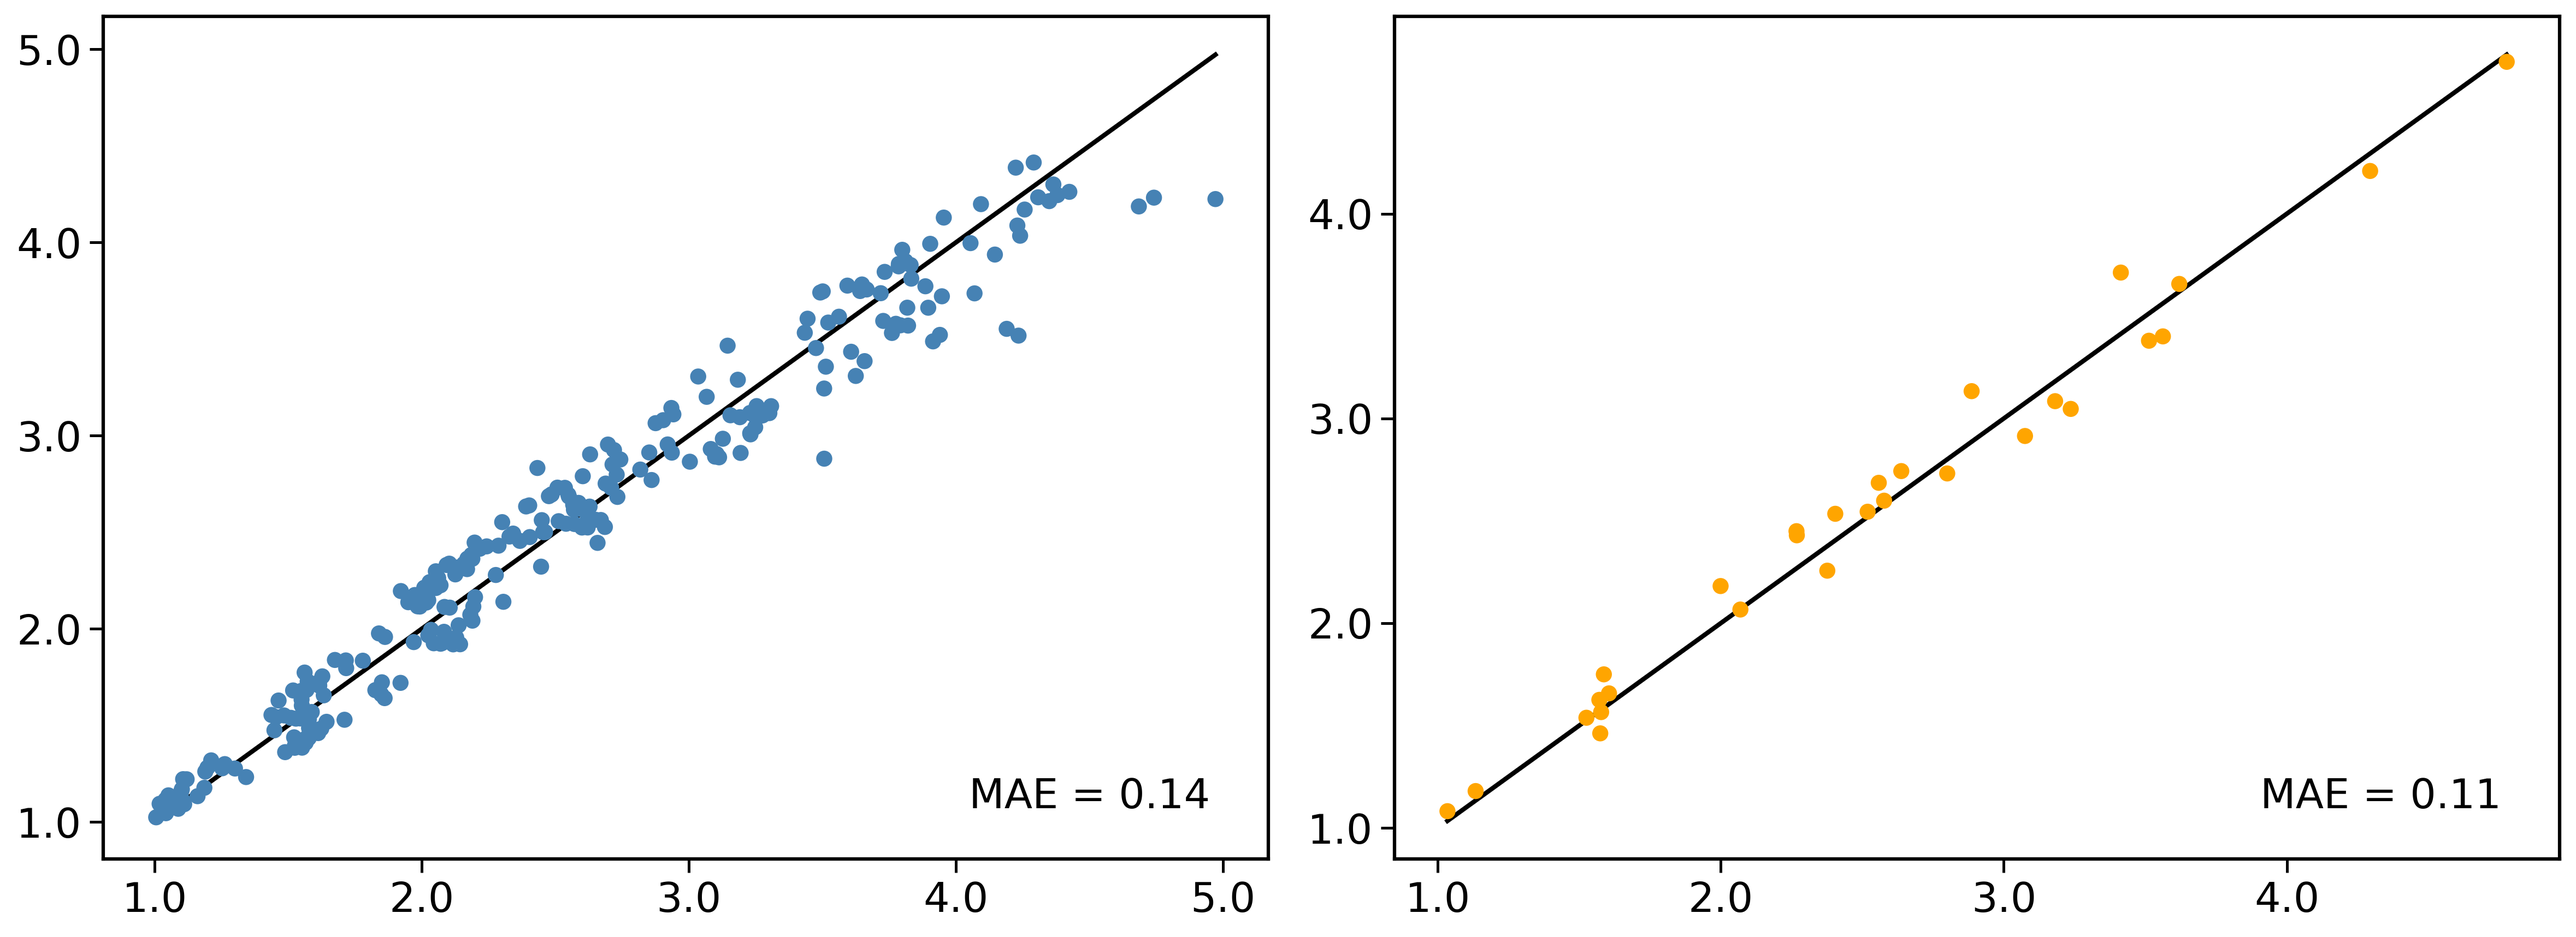
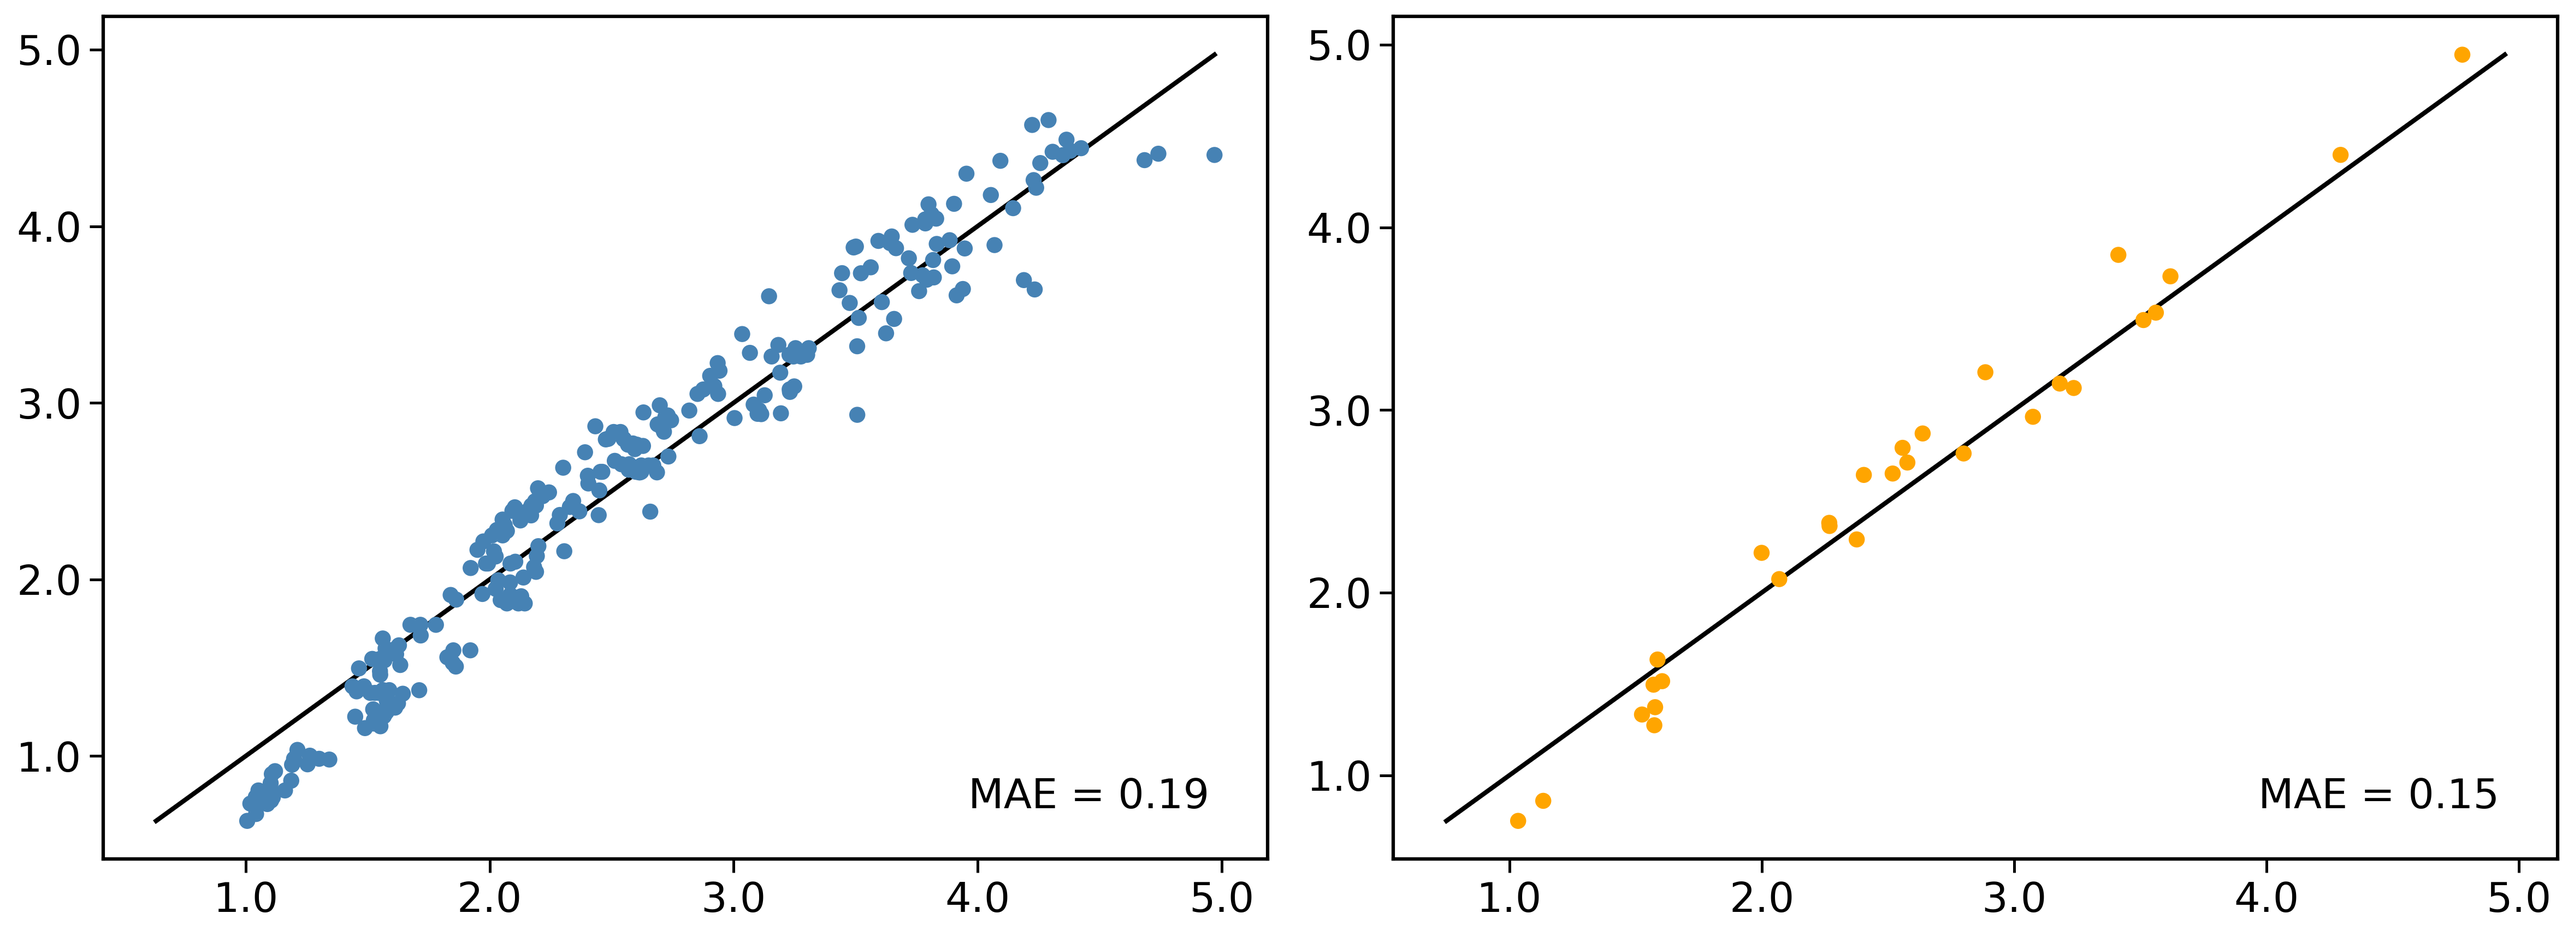
baseline polynomials

diff --git a/time_select/hf_selection.py b/time_select/hf_selection.py
@@ -206,82 +206,79 @@ time_polynomials = {
 
     "MP2_true": lambda p, n_occ, n_virt, nbf_aux: (
         p[0] 
-        + p[1] * (nbf_aux * (n_occ + n_virt) ** 2)               # J Build
-        + p[2] * (n_occ * (n_occ + n_virt) ** 2 * nbf_aux)       # K Build
+        + p[1] * (nbf_aux * (n_occ + n_virt) ** 2)               # HF J Build
+        + p[2] * (n_occ * (n_occ + n_virt) ** 2 * nbf_aux)       # HF K Build
         + p[3] * (n_occ * (n_occ + n_virt)**2 * nbf_aux)         # 3-index int 1
         + p[4] * (n_occ * n_virt * (n_occ + n_virt) * nbf_aux)   # 3-index int 2 
         + p[5] * (n_occ**2 * n_virt**2 * nbf_aux)                # int transform
     ),
 
-    "wB97X-V_2_le": lambda p, n_occ, n_virt, nbf_aux, np_total: (
-        p[0] + p[1] * (n_occ * (n_occ + n_virt)**2 * nbf_aux) 
-        + p[2] * (nbf_aux * (n_occ + n_virt)**2) 
-        + p[3] * ((n_occ + n_virt) * np_total) 
-        + p[4] * ((0.5 * np_total) ** 2)
+    "B3LYP-D3_true": lambda p, n_occ, n_virt, nbf_aux, np_total: (
+        p[0]
+        + p[1] * (np_total * (n_occ + n_virt)**2)              # DFT exchange SHOULD THIS BE Nao^1 ?
+        + p[2] * (nbf_aux * (n_occ + n_virt) ** 2)          # HF J Build
+        + p[3] * (n_occ * (n_occ + n_virt) ** 2 * nbf_aux)  # HF K Build
     ),
 
-    "wB97X-V_2_gt": lambda p, n_occ, n_virt, nbf_aux, np_total: (
-        p[0] + p[1] * (n_occ * (n_occ + n_virt)**2 * nbf_aux) 
-        + p[2] * (nbf_aux * (n_occ + n_virt)**2) 
-        + p[3] * ((n_occ + n_virt) ** 1.1 * np_total) 
-        + p[4] * ((0.8*np_total) ** 2)
+    "B2PLYP-D3_true": lambda p, n_occ, n_virt, nbf_aux, np_total: (
+        p[0]
+        + p[1] * (np_total * (n_occ + n_virt)**2)                   # DFT exchange SHOULD THIS BE Nao^1 ?
+        + p[2] * (nbf_aux * (n_occ + n_virt) ** 2)               # HF J Build
+        + p[3] * (n_occ * (n_occ + n_virt) ** 2 * nbf_aux)       # HF K Build
+        + p[4] * (n_occ * (n_occ + n_virt)**2 * nbf_aux)         # MP2 3-index int 1
+        + p[5] * (n_occ * n_virt * (n_occ + n_virt) * nbf_aux)   # MP2 3-index int 2 
+        + p[6] * (n_occ**2 * n_virt**2 * nbf_aux)                # MP2 int transform
     ),
 
-    "B3LYP-D3_1": lambda p, n_occ, n_virt, nbf_aux, np_total: (
-        p[0] + p[1] * ((n_occ + n_virt) * np_total) 
-        + p[2] * (((n_occ + n_virt)**2 * nbf_aux) + ((n_occ + n_virt)**2 * nbf_aux) + nbf_aux**2) 
-        + p[3] * (nbf_aux**2 + nbf_aux**3)
-    ),
-
-    "B2PLYP-D3_2": lambda p, n_occ, n_virt, nbf_aux, np_total: (
-        p[0]  # Constant overhead
-        + p[1] * (np_total * (n_occ + n_virt))  # DFT XC (B88+LYP): O(N_grid × N_bf^1.4)
-        + p[2] * (nbf_aux * (n_occ + n_virt)**2)  # J matrix: O(N_aux × N_bf^2)
-        + p[3] * (nbf_aux * (n_occ + n_virt)**2 * n_occ)  # K matrix: O(N_bf^2 × N_occ × N_aux)
-        + p[4] * (nbf_aux * (n_occ + n_virt)**2 * n_occ)  # MP2 transformation: O(N_aux × N_bf^2 × N_occ)
-        + p[5] * (nbf_aux**2 * n_occ * n_virt)  # MP2 fitting: O(N_occ × N_virt × N_aux^2)
-        + p[6] * (nbf_aux * n_occ**2 * n_virt**2)  # MP2 energy: O(N_occ^2 × N_virt^2 × N_aux)
-    ),
-    "B2PLYP-D3_2_1": lambda p, n_occ, n_virt, nbf_aux, np_total: (
-        p[0]  # Constant overhead
-        + p[1] * (np_total * (n_occ + n_virt)**1.2)  # DFT XC (B88+LYP): O(N_grid × N_bf^1.4)
-        + p[2] * (nbf_aux * (n_occ + n_virt)**2)  # J matrix: O(N_aux × N_bf^2)
-        + p[3] * (nbf_aux * (n_occ + n_virt)**2 * n_occ)  # K matrix: O(N_bf^2 × N_occ × N_aux)
-        + p[4] * (nbf_aux * (n_occ + n_virt)**2 * n_occ)  # MP2 transformation: O(N_aux × N_bf^2 × N_occ)
-        + p[5] * (nbf_aux**2 * n_occ * n_virt)  # MP2 fitting: O(N_occ × N_virt × N_aux^2)
-        + p[6] * (nbf_aux * n_occ**2 * n_virt**2)  # MP2 energy: O(N_occ^2 × N_virt^2 × N_aux)
-    ),
-
-    "M05-2X_2": lambda p, n_occ, n_virt, nbf_aux, np_total: (
-        p[0]  # Constant overhead
-        + p[1] * (np_total * (n_occ + n_virt)**1.2)  # Meta-GGA XC: O(N_grid × N_bf^1.4)
-        + p[2] * (nbf_aux * (n_occ + n_virt)**2)  # J matrix: O(N_aux × N_bf^2)
-        + p[3] * (nbf_aux * (n_occ + n_virt)**2 * n_occ)  # K matrix: O(N_bf^2 × N_occ × N_aux)
+    "M05-2X_true": lambda p, n_occ, n_virt, nbf_aux, np_total: (
+        p[0]
+        + p[1] * (np_total * (n_occ + n_virt)**2)              # DFT exchange SHOULD THIS BE Nao^1 ?
+        + p[2] * (nbf_aux * (n_occ + n_virt) ** 2)          # HF J Build
+        + p[3] * (n_occ * (n_occ + n_virt) ** 2 * nbf_aux)  # HF K Build
     ),  
 
-    "PBE-D3_2": lambda p, n_occ, n_virt, nbf_aux, np_total: (
-        p[0] 
-        + p[1] * ((n_occ + n_virt)**1.25 * np_total) 
-        + p[2] * (n_occ * (n_occ + n_virt)**2 * nbf_aux) 
-        + p[3] * (nbf_aux * (n_occ + n_virt)**2)
+    "PBE-D3_true": lambda p, n_occ, n_virt, nbf_aux, np_total: (
+        p[0]
+        + p[1] * (np_total * (n_occ + n_virt)**2)              # DFT exchange SHOULD THIS BE Nao^1 ?
+        + p[2] * (nbf_aux * (n_occ + n_virt) ** 2)          # HF J Build
     ),
 
-    "PBE-D3_2_1": lambda p, n_occ, n_virt, nbf_aux, np_total: (
+    "FNO-CCSD_true": lambda p, n_occ, n_virt: ( 
         p[0] 
-        + p[1] * ((n_occ + n_virt)**1.25 * np_total) 
-        + p[2] * (n_occ * (n_occ + n_virt)**2 * nbf_aux) 
-        + p[3] * (nbf_aux * (n_occ + n_virt)**2)
+        + p[1] * (n_occ * n_virt)             # J-term
+        + p[2] * (n_occ ** 3 * n_virt ** 2)   # H-term
+        + p[3] * (n_occ ** 2 * n_virt ** 2)   # F,I-term
+        + p[4] * (n_occ ** 2 * n_virt ** 3)   # G-term
+        + p[5] * (n_occ ** 3 * n_virt ** 3)   # C,D-term
+        + p[6] * (n_occ ** 2 * n_virt ** 4)   # B-term
+        + p[7] * (n_occ ** 4 * n_virt ** 2)   # A-term
     ),
 
-    "CCSD_test_1": lambda p, n_occ, n_virt: (
+    "FNO-CCSD(T)_true": lambda p, n_occ, n_virt: (
         p[0] 
-        + p[1] * (n_occ ** 1 * n_virt ** 1) 
-        + p[2] * (n_occ ** 3 * n_virt ** 2) 
-        + p[3] * (n_occ ** 2 * n_virt ** 2) 
-        + p[4] * (n_occ ** 2 * n_virt ** 3) 
-        + p[5] * (n_occ ** 3 * n_virt ** 3) 
-        + p[6] * (n_occ ** 2 * n_virt ** 4) 
-        + p[7] * (n_occ ** 4 * n_virt ** 2)
+        + p[1] * (n_occ * n_virt)             # J-term
+        + p[2] * (n_occ ** 3 * n_virt ** 2)   # H-term
+        + p[3] * (n_occ ** 2 * n_virt ** 2)   # F,I-term
+        + p[4] * (n_occ ** 2 * n_virt ** 3)   # G-term
+        + p[5] * (n_occ ** 3 * n_virt ** 3)   # C,D-term
+        + p[6] * (n_occ ** 2 * n_virt ** 4)   # B-term
+        + p[7] * (n_occ ** 4 * n_virt ** 2)   # A-term
+        + p[8] * (n_occ ** 3 * n_virt ** 4)   # T algorithm?
+    ),
+
+    "wB97X-V_true": lambda p, n_occ, n_virt, nbf_aux, np_total: (
+        p[0]
+        + p[1] * (np_total * (n_occ + n_virt)**2)              # DFT exchange SHOULD THIS BE Nao^1 ?
+        + p[2] * (nbf_aux * (n_occ + n_virt) ** 2)          # HF J Build
+        + p[3] * (n_occ * (n_occ + n_virt) ** 2 * nbf_aux)  # HF K Build
+        + p[4] * (np_total ** 2)                            # VV10
+    ),
+
+    "wB97X-D_true": lambda p, n_occ, n_virt, nbf_aux, np_total: (
+        p[0]
+        + p[1] * (np_total * (n_occ + n_virt)**2)              # DFT exchange SHOULD THIS BE Nao^1 ?
+        + p[2] * (nbf_aux * (n_occ + n_virt) ** 2)          # HF J Build
+        + p[3] * (n_occ * (n_occ + n_virt) ** 2 * nbf_aux)  # HF K Build
     ),
 
 }
@@ -351,65 +348,65 @@ if(COMPOSITE_POLYS):
 
 else:
     POLY_CONFIGS = {
-        # "wB97X-V": {
-        #     "split": None,
-        #     "split_type": "nbf_aux",
-        #     "le": ("wB97X-V_2_le", {"n_params": 5, "bounds": (0.0, None)}),
-        #     "gt": ("wB97X-V_2_gt", {"n_params": 5, "bounds": (0.0, None)}),
-        # },
-        # "wB97X-D": {
-        #     "split": None,
-        #     "split_type": "nbf_aux",
-        #     "le": ("wB97X-V_2_le", {"n_params": 5, "bounds": (0.0, None)}),
-        #     "gt": ("wB97X-V_2_gt", {"n_params": 5, "bounds": (0.0, None)}),
-        # },        
-        # "B3LYP-D3": {
-        #     "split": None,
-        #     "split_type": "np_total",
-        #     "le": ("B3LYP-D3_1", {"n_params": 4, "bounds": (0.0, None)}),
-        #     "gt": ("B3LYP-D3_1", {"n_params": 4, "bounds": (0.0, None)}),
-        # },
-        # "B2PLYP-D3": {
-        #     "split": None,
-        #     "split_type": "np_total",
-        #     "le": ("B2PLYP-D3_2", {"n_params": 7, "bounds": (0.0, None)}),
-        #     "gt": ("B2PLYP-D3_2_1", {"n_params": 7, "bounds": (0.0, None)}),
-        # },
+        "wB97X-V": {
+            "split": None,
+            "split_type": "nbf_aux",
+            "le": ("wB97X-V_true", {"n_params": 5, "bounds": (0.0, None)}),
+            "gt": ("wB97X-V_2_gt", {"n_params": 5, "bounds": (0.0, None)}),
+        },
+        "wB97X-D": {
+            "split": None,
+            "split_type": "nbf_aux",
+            "le": ("wB97X-D_true", {"n_params": 4, "bounds": (0.0, None)}),
+            "gt": ("wB97X-V_2_gt", {"n_params": 5, "bounds": (0.0, None)}),
+        },        
+        "B3LYP-D3": {
+            "split": None,
+            "split_type": "np_total",
+            "le": ("B3LYP-D3_true", {"n_params": 4, "bounds": (0.0, None)}),
+            "gt": ("B3LYP-D3_1", {"n_params": 4, "bounds": (0.0, None)}),
+        },
+        "B2PLYP-D3": {
+            "split": None,
+            "split_type": "np_total",
+            "le": ("B2PLYP-D3_true", {"n_params": 7, "bounds": (0.0, None)}),
+            "gt": ("B2PLYP-D3_2_1", {"n_params": 7, "bounds": (0.0, None)}),
+        },
         "MP2": {
             "split": None,
             "split_type": "nbf_aux",
             "le": ("MP2_true", {"n_params": 6, "bounds": (0.0, None)}),
             "gt": ("MP2_test7", {"n_params": 6, "bounds": (0.0, None)}),
         },
-        # "HF": {
-        #     "split": None,
-        #     "split_type": "nbf_aux",
-        #     "le": ("HF_test4", {"n_params": 3, "bounds": (0.0, None)}),
-        #     "gt": ("HF_test4", {"n_params": 3, "bounds": (0.0, None)}),
-        # },
-        # "M05-2X": {
-        #     "split": None,
-        #     "split_type": "nbf_aux",
-        #     "le": ("M05-2X_2", {"n_params": 4, "bounds": (0.0, None)}),
-        #     "gt": ("M05-2X_2", {"n_params": 4, "bounds": (0.0, None)}),
-        # },
-        # "PBE-D3": {
-        #     "split": None,
-        #     "split_type": "basis",
-        #     "le": ("PBE-D3_2", {"n_params": 4, "bounds": (0.0, None)}),
-        #     "gt": ("PBE-D3_2_1", {"n_params": 4, "bounds": (0.0, None)}),
-        # },
-        # "FNO-CCSD(T)": {
-        #     "split": None,
-        #     "split_type": "np_total",
-        #     "le": ("CCSD_test_1", {"n_params": 8, "bounds": (0.0, None)}),
-        #     "gt": ("M05-2X_1", {"n_params": 3, "bounds": (0.0, None)}),
-        # },
-        # "FNO-CCSD": {
-        #     "split": None,
-        #     "le": ("M05-2X_2", {"n_params": 4, "bounds": (0.0, None)}),
-        #     "gt": ("M05-2X_1", {"n_params": 3, "bounds": (0.0, None)}),
-        # },
+        "HF": {
+            "split": None,
+            "split_type": "nbf_aux",
+            "le": ("HF_true", {"n_params": 3, "bounds": (0.0, None)}),
+            "gt": ("HF_test4", {"n_params": 3, "bounds": (0.0, None)}),
+        },
+        "M05-2X": {
+            "split": None,
+            "split_type": "nbf_aux",
+            "le": ("M05-2X_true", {"n_params": 4, "bounds": (0.0, None)}),
+            "gt": ("M05-2X_2", {"n_params": 4, "bounds": (0.0, None)}),
+        },
+        "PBE-D3": {
+            "split": None,
+            "split_type": "basis",
+            "le": ("PBE-D3_true", {"n_params": 3, "bounds": (0.0, None)}),
+            "gt": ("PBE-D3_2_1", {"n_params": 4, "bounds": (0.0, None)}),
+        },
+        "FNO-CCSD(T)": {
+            "split": None,
+            "split_type": "np_total",
+            "le": ("FNO-CCSD(T)_true", {"n_params": 9, "bounds": (0.0, None)}),
+            "gt": ("M05-2X_1", {"n_params": 3, "bounds": (0.0, None)}),
+        },
+        "FNO-CCSD": {
+            "split": None,
+            "le": ("FNO-CCSD_true", {"n_params": 8, "bounds": (0.0, None)}),
+            "gt": ("M05-2X_1", {"n_params": 3, "bounds": (0.0, None)}),
+        },
     }
 
 # ---------------------------------------------------------------------------
@@ -984,13 +981,13 @@ def main():
     latex_rows = []
     method_order = [
         "HF",
-        "MP2",
         "PBE-D3",
         "B3LYP-D3",
         "M05-2X",
-        "B2PLYP-D3",
         "wB97X-D",
         "wB97X-V",
+        "MP2",
+        "B2PLYP-D3",
         "FNO-CCSD",
         "FNO-CCSD(T)",
     ]

diff --git a/time_select/plots_latex/time_fit_table.tex b/time_select/plots_latex/time_fit_table.tex
@@ -7,6 +7,24 @@
 \textbf{Method} & \textbf{\# train} & \textbf{\# test} & \textbf{Train MAE} & \textbf{Test MAE} & \textbf{Coeffs} & \textbf{Functional Form} \\ 
 \hline
 \endhead
+HF & 228 & 26 & 0.15 & 0.13 & \begin{tabular}{l}\(c_{0}=1.000e+00\) \\ \(c_{1}=1.323e-08\) \\ \(c_{2}=0.000e+00\)\end{tabular} & $\begin{array}{l}( c_{0} \\ + c_{1}  \cdot  (N_{aux}  \cdot  N_{ao} ^ 2) \\ + c_{2}  \cdot  (N_{occ}  \cdot  N_{ao} ^ 2  \cdot  N_{aux}) )\end{array}$ \\ 
+\hline
+PBE-D3 & 273 & 31 & 0.22 & 0.25 & \begin{tabular}{l}\(c_{0}=1.000e+00\) \\ \(c_{1}=0.000e+00\) \\ \(c_{2}=2.859e-08\)\end{tabular} & $\begin{array}{l}( c_{0} \\ + c_{1}  \cdot  (N_{p}  \cdot  N_{ao}^2) \\ + c_{2}  \cdot  (N_{aux}  \cdot  N_{ao} ^ 2) )\end{array}$ \\ 
+\hline
+B3LYP-D3 & 284 & 32 & 0.16 & 0.15 & \begin{tabular}{l}\(c_{0}=1.000e+00\) \\ \(c_{1}=0.000e+00\) \\ \(c_{2}=3.747e-08\) \\ \(c_{3}=0.000e+00\)\end{tabular} & $\begin{array}{l}( c_{0} \\ + c_{1}  \cdot  (N_{p}  \cdot  N_{ao}^2) \\ + c_{2}  \cdot  (N_{aux}  \cdot  N_{ao} ^ 2) \\ + c_{3}  \cdot  (N_{occ}  \cdot  N_{ao} ^ 2  \cdot  N_{aux}) )\end{array}$ \\ 
+\hline
+M05-2X & 256 & 29 & 0.19 & 0.15 & \begin{tabular}{l}\(c_{0}=1.000e+00\) \\ \(c_{1}=0.000e+00\) \\ \(c_{2}=5.238e-08\) \\ \(c_{3}=0.000e+00\)\end{tabular} & $\begin{array}{l}( c_{0} \\ + c_{1}  \cdot  (N_{p}  \cdot  N_{ao}^2) \\ + c_{2}  \cdot  (N_{aux}  \cdot  N_{ao} ^ 2) \\ + c_{3}  \cdot  (N_{occ}  \cdot  N_{ao} ^ 2  \cdot  N_{aux}) )\end{array}$ \\ 
+\hline
+wB97X-D & 243 & 28 & 0.17 & 0.15 & \begin{tabular}{l}\(c_{0}=1.000e+00\) \\ \(c_{1}=0.000e+00\) \\ \(c_{2}=7.116e-08\) \\ \(c_{3}=0.000e+00\)\end{tabular} & $\begin{array}{l}( c_{0} \\ + c_{1}  \cdot  (N_{p}  \cdot  N_{ao}^2) \\ + c_{2}  \cdot  (N_{aux}  \cdot  N_{ao} ^ 2) \\ + c_{3}  \cdot  (N_{occ}  \cdot  N_{ao} ^ 2  \cdot  N_{aux}) )\end{array}$ \\ 
+\hline
+wB97X-V & 240 & 27 & 0.35 & 0.38 & \begin{tabular}{l}\(c_{0}=1.000e+00\) \\ \(c_{1}=0.000e+00\) \\ \(c_{2}=2.061e-07\) \\ \(c_{3}=0.000e+00\) \\ \(c_{4}=0.000e+00\)\end{tabular} & $\begin{array}{l}( c_{0} \\ + c_{1}  \cdot  (N_{p}  \cdot  N_{ao}^2) \\ + c_{2}  \cdot  (N_{aux}  \cdot  N_{ao} ^ 2) \\ + c_{3}  \cdot  (N_{occ}  \cdot  N_{ao} ^ 2  \cdot  N_{aux}) \\ + c_{4}  \cdot  (N_{p} ^ 2) )\end{array}$ \\ 
+\hline
 MP2 & 261 & 30 & 0.20 & 0.23 & \begin{tabular}{l}\(c_{0}=1.000e+00\) \\ \(c_{1}=3.246e-08\) \\ \(c_{2}=0.000e+00\) \\ \(c_{3}=0.000e+00\) \\ \(c_{4}=0.000e+00\) \\ \(c_{5}=0.000e+00\)\end{tabular} & $\begin{array}{l}( c_{0} \\ + c_{1}  \cdot  (N_{aux}  \cdot  N_{ao} ^ 2) \\ + c_{2}  \cdot  (N_{occ}  \cdot  N_{ao} ^ 2  \cdot  N_{aux}) \\ + c_{3}  \cdot  (N_{occ}  \cdot  N_{ao}^2  \cdot  N_{aux}) \\ + c_{4}  \cdot  (N_{occ}  \cdot  N_{virt}  \cdot  N_{ao}  \cdot  N_{aux}) \\ + c_{5}  \cdot  (N_{occ}^2  \cdot  N_{virt}^2  \cdot  N_{aux}) )\end{array}$ \\ 
+\hline
+B2PLYP-D3 & 226 & 26 & 0.16 & 0.21 & \begin{tabular}{l}\(c_{0}=1.000e+00\) \\ \(c_{1}=0.000e+00\) \\ \(c_{2}=5.327e-08\) \\ \(c_{3}=0.000e+00\) \\ \(c_{4}=0.000e+00\) \\ \(c_{5}=0.000e+00\) \\ \(c_{6}=0.000e+00\)\end{tabular} & $\begin{array}{l}( c_{0} \\ + c_{1}  \cdot  (N_{p}  \cdot  N_{ao}^2) \\ + c_{2}  \cdot  (N_{aux}  \cdot  N_{ao} ^ 2) \\ + c_{3}  \cdot  (N_{occ}  \cdot  N_{ao} ^ 2  \cdot  N_{aux}) \\ + c_{4}  \cdot  (N_{occ}  \cdot  N_{ao}^2  \cdot  N_{aux}) \\ + c_{5}  \cdot  (N_{occ}  \cdot  N_{virt}  \cdot  N_{ao}  \cdot  N_{aux}) \\ + c_{6}  \cdot  (N_{occ}^2  \cdot  N_{virt}^2  \cdot  N_{aux}) )\end{array}$ \\ 
+\hline
+FNO-CCSD & 227 & 26 & 0.12 & 0.14 & \begin{tabular}{l}\(c_{0}=9.998e-01\) \\ \(c_{1}=2.111e-02\) \\ \(c_{2}=2.172e-09\) \\ \(c_{3}=7.967e-11\) \\ \(c_{4}=1.075e-08\) \\ \(c_{5}=0.000e+00\) \\ \(c_{6}=0.000e+00\) \\ \(c_{7}=0.000e+00\)\end{tabular} & $\begin{array}{l}( c_{0} \\ + c_{1}  \cdot  (N_{occ}  \cdot  N_{virt}) \\ + c_{2}  \cdot  (N_{occ} ^ 3  \cdot  N_{virt} ^ 2) \\ + c_{3}  \cdot  (N_{occ} ^ 2  \cdot  N_{virt} ^ 2) \\ + c_{4}  \cdot  (N_{occ} ^ 2  \cdot  N_{virt} ^ 3) \\ + c_{5}  \cdot  (N_{occ} ^ 3  \cdot  N_{virt} ^ 3) \\ + c_{6}  \cdot  (N_{occ} ^ 2  \cdot  N_{virt} ^ 4) \\ + c_{7}  \cdot  (N_{occ} ^ 4  \cdot  N_{virt} ^ 2) )\end{array}$ \\ 
+\hline
+FNO-CCSD(T) & 227 & 26 & 0.44 & 0.41 & \begin{tabular}{l}\(c_{0}=9.998e-01\) \\ \(c_{1}=1.279e-01\) \\ \(c_{2}=0.000e+00\) \\ \(c_{3}=0.000e+00\) \\ \(c_{4}=0.000e+00\) \\ \(c_{5}=0.000e+00\) \\ \(c_{6}=0.000e+00\) \\ \(c_{7}=0.000e+00\) \\ \(c_{8}=0.000e+00\)\end{tabular} & $\begin{array}{l}( c_{0} \\ + c_{1}  \cdot  (N_{occ}  \cdot  N_{virt}) \\ + c_{2}  \cdot  (N_{occ} ^ 3  \cdot  N_{virt} ^ 2) \\ + c_{3}  \cdot  (N_{occ} ^ 2  \cdot  N_{virt} ^ 2) \\ + c_{4}  \cdot  (N_{occ} ^ 2  \cdot  N_{virt} ^ 3) \\ + c_{5}  \cdot  (N_{occ} ^ 3  \cdot  N_{virt} ^ 3) \\ + c_{6}  \cdot  (N_{occ} ^ 2  \cdot  N_{virt} ^ 4) \\ + c_{7}  \cdot  (N_{occ} ^ 4  \cdot  N_{virt} ^ 2) \\ + c_{8}  \cdot  (N_{occ} ^ 3  \cdot  N_{virt} ^ 4) )\end{array}$ \\ 
 \hline
 \end{longtable}
